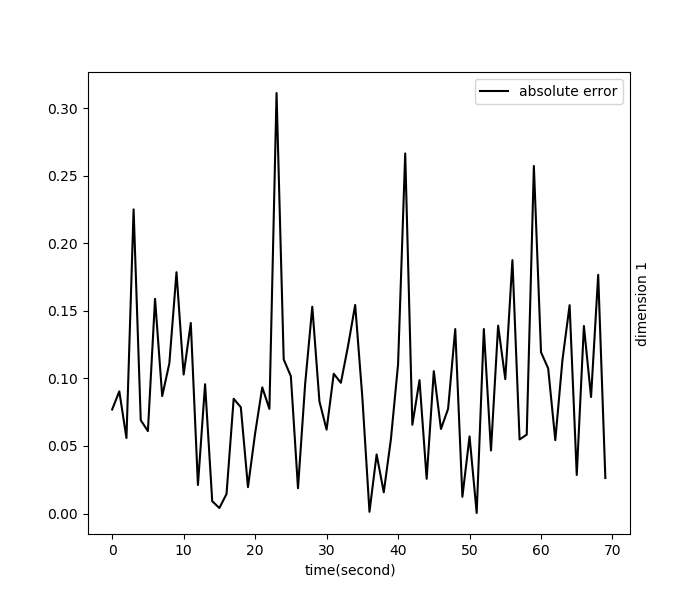
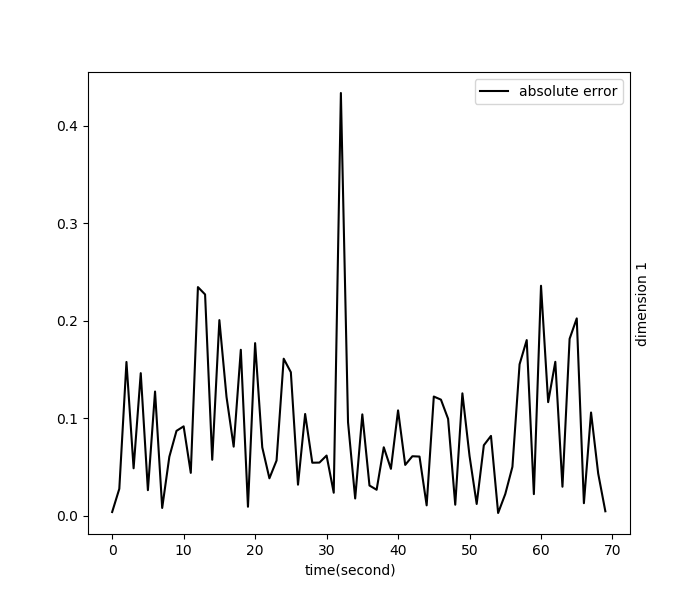
enkf working draft

diff --git a/python/modules/filter.py b/python/modules/filter.py
@@ -498,16 +498,18 @@ class KalmanFilter(Filter):
         model: a Model object containing the dynamic and measurement models
         current_time: integer-valued time starting at 0 denoting index of current hidden state
     """
-    def __init__(self, model, mean0, cov0, jac_h_x, jac_h_n, jac_o_x, jac_o_n):
+    def __init__(self, model, mean0, cov0, jac_h_x = None, jac_h_n = None, jac_o_x = None, jac_o_n = None):
         super().__init__(model = model)
         self.mean = mean0
         self.cov = cov0
         self.zero_h = np.zeros(self.model.hidden_state.dimension)
         self.zero_o = np.zeros(self.model.observation.dimension)
-        self.jac_h_x = jac_h_x
-        self.jac_h_n = jac_h_n
-        self.jac_o_x = jac_o_x
-        self.jac_o_n = jac_o_n
+        self.jac_h_x = jac_h_x if jac_h_x is not None else \
+                        lambda k, x: self.model.hidden_state.func(self.current_time, np.identity(self.model.hidden_state.dimension), self.zero_h)
+        self.jac_h_n = jac_h_n if jac_h_n is not None else lambda k, x: np.identity(self.model.hidden_state.dimension)
+        self.jac_o_x = jac_o_x if jac_o_x is not None else \
+                        lambda k, x: self.model.observation.func(self.current_time, np.identity(self.model.hidden_state.dimension), self.zero_o)
+        self.jac_o_n = jac_o_n if jac_o_n is not None else lambda k, x: np.identity(self.model.observation.dimension)
         self.process_noise_cov = self.model.hidden_state.sigma
         self.measurement_noise_cov = self.model.observation.sigma
 
@@ -556,32 +558,33 @@ class EnsembleKF(KalmanFilter):
         model: a Model object containing the dynamic and measurement models
         current_time: integer-valued time starting at 0 denoting index of current hidden state
     """
-    def __init__(self, model, ensemble_size):
-        super().__init__(model = model, mean0 = None, cov0 = None, jac_h_x = None, jac_h_n = None, jac_o_x = None, jac_o_n = None)
+    def __init__(self, model, ensemble_size, jac_h_x = None, jac_h_n = None, jac_o_x = None, jac_o_n = None):
+        super().__init__(model = model, mean0 = None, cov0 = None, jac_h_x = jac_h_x, jac_h_n = jac_h_n, jac_o_x = jac_o_x, jac_o_n = jac_o_n)
         self.ensemble_size = ensemble_size
-        self.H = self.model.observation.func(self.current_time, np.identity(self.model.hidden_state.dimension), self.zero_o)
+        #self.H = self.model.observation.func(self.current_time, np.identity(self.model.hidden_state.dimension), self.zero_o)
+        self.ensemble = np.zeros((self.model.hidden_state.dimension, self.ensemble_size))
+        self.D = np.zeros((self.model.observation.dimension, self.ensemble_size))
 
     def one_step_update(self, observation):
-        if self.current_time < 1:
-            self.ensemble = np.zeros((self.model.hidden_state.dimension, self.ensemble_size))
-            for i in range(self.ensemble_size):
-                self.ensemble[:, i] = self.model.hidden_state.sims[0].algorithm()
-            self.D = np.zeros((self.model.observation.dimension, self.ensemble_size))
-            self.mean = np.average(self.ensemble, weights = [1.0/self.ensemble_size]*self.ensemble_size, axis = 1)
-
         # create data matrix and predict new ensemble
         for i in range(self.ensemble_size):
-            self.ensemble[:, i] = self.model.hidden_state.func(self.current_time, self.ensemble[:, i], self.zero_h)
+            if self.current_time > 0:
+                self.ensemble[:, i] = self.model.hidden_state.sims[self.current_time].algorithm(self.current_time, self.ensemble[:, i])#func(self.current_time, self.ensemble[:, i], self.zero_h)
+            else:
+                self.ensemble[:, i] = self.model.hidden_state.sims[0].algorithm()
             self.D[:, i] = observation + self.model.observation.noise_sim.algorithm()
 
         # compute Kalman gain
-        A = self.ensemble - np.dot(self.mean.reshape(-1, 1), np.ones((1, self.ensemble_size)))
+        mean = np.average(self.ensemble, weights = [1.0/self.ensemble_size]*self.ensemble_size, axis = 1)
+        A = self.ensemble - np.dot(mean.reshape(-1, 1), np.ones((1, self.ensemble_size)))
         C = np.dot(A, A.T)/(self.ensemble_size - 1.0)
-        S = np.linalg.multi_dot([self.H, C, self.H.T]) + self.measurement_noise_cov
-        K = np.linalg.multi_dot([C, self.H.T, np.linalg.inv(S)])
+        H_x = self.jac_o_x(self.current_time, mean)
+        H_n = self.jac_o_n(self.current_time, mean)
+        S = np.linalg.multi_dot([H_x, C, H_x.T]) + np.linalg.multi_dot([H_n, self.measurement_noise_cov, H_n.T])#np.linalg.multi_dot([self.H, C, self.H.T]) + self.measurement_noise_cov
+        K = np.linalg.multi_dot([C, H_x.T, np.linalg.inv(S)])
 
         # update ensemble
-        self.ensemble += np.dot(K, self.D - np.dot(self.H, self.ensemble))
+        self.ensemble += np.dot(K, self.D - np.dot(H_x, self.ensemble))
         self.mean = np.average(self.ensemble, weights = [1.0/self.ensemble_size]*self.ensemble_size, axis = 1)
 
 class QuadraticImplicitPF(ParticleFilter):

diff --git a/python/experiments/KalmanFilter/ekf1.py b/python/experiments/KalmanFilter/ekf1.py
@@ -25,8 +25,7 @@ observed_path = model.observation.generate_path(hidden_path)
 """
 Solution using an implcit particle filter
 """
-ekf = fl.KalmanFilter(model, mean0 = np.zeros(2), cov0 = np.identity(2), jac_h_x = model1.jac_h_x, jac_h_n = model1.jac_h_n,\
-                    jac_o_x = model1.jac_o_x, jac_o_n = model1.jac_o_n)
+ekf = fl.KalmanFilter(model, mean0 = np.zeros(2), cov0 = np.identity(2))
 ekf.update(observed_path)
 # plot trajectories
 image_dir = str(script_path.parent.parent.parent) + '/images/KalmanFilter/'

diff --git a/python/experiments/EnsembleKF/enkf1.py b/python/experiments/EnsembleKF/enkf1.py
@@ -25,7 +25,7 @@ observed_path = model.observation.generate_path(hidden_path)
 """
 Solution using an implcit particle filter
 """
-enkf = fl.EnsembleKF(model, ensemble_size = 2000)
+enkf = fl.EnsembleKF(model, ensemble_size = 200)
 enkf.update(observed_path)
 # plot trajectories
 image_dir = str(script_path.parent.parent.parent) + '/images/EnsembleKF/'
